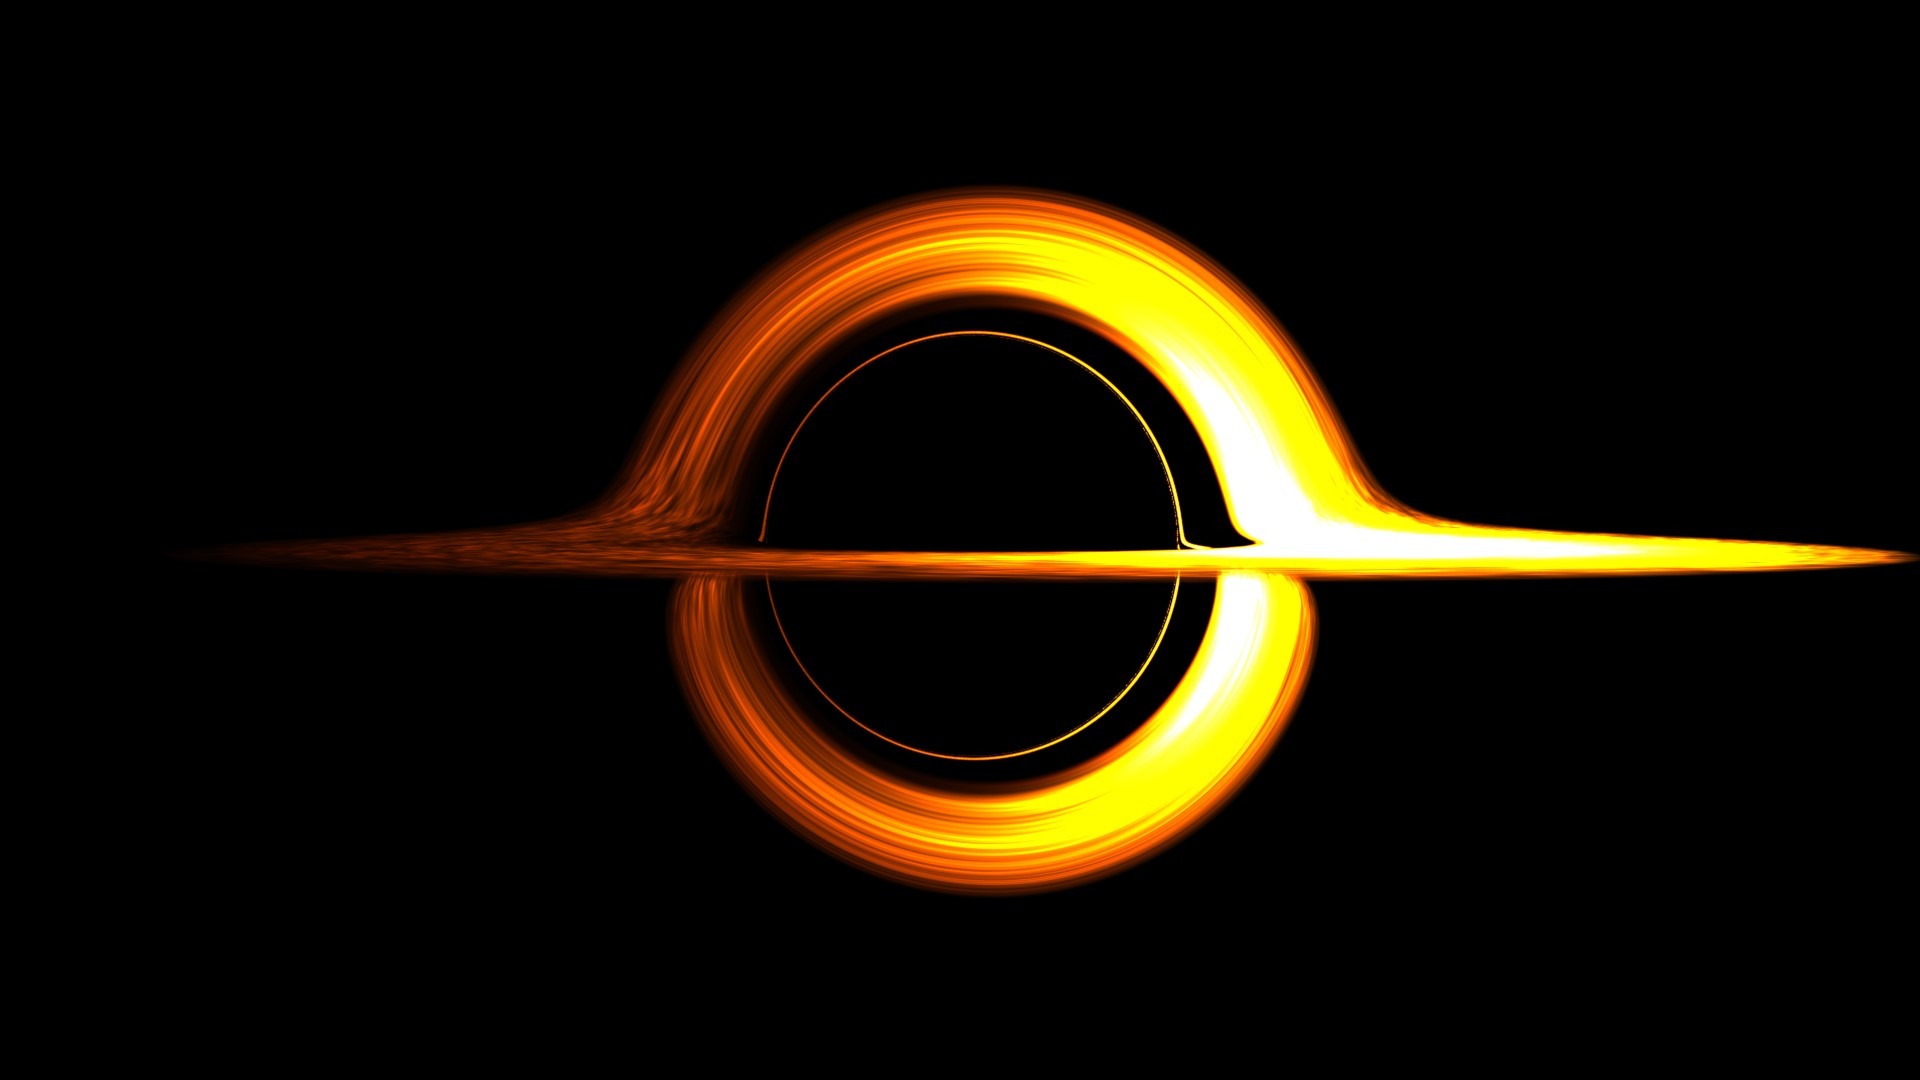
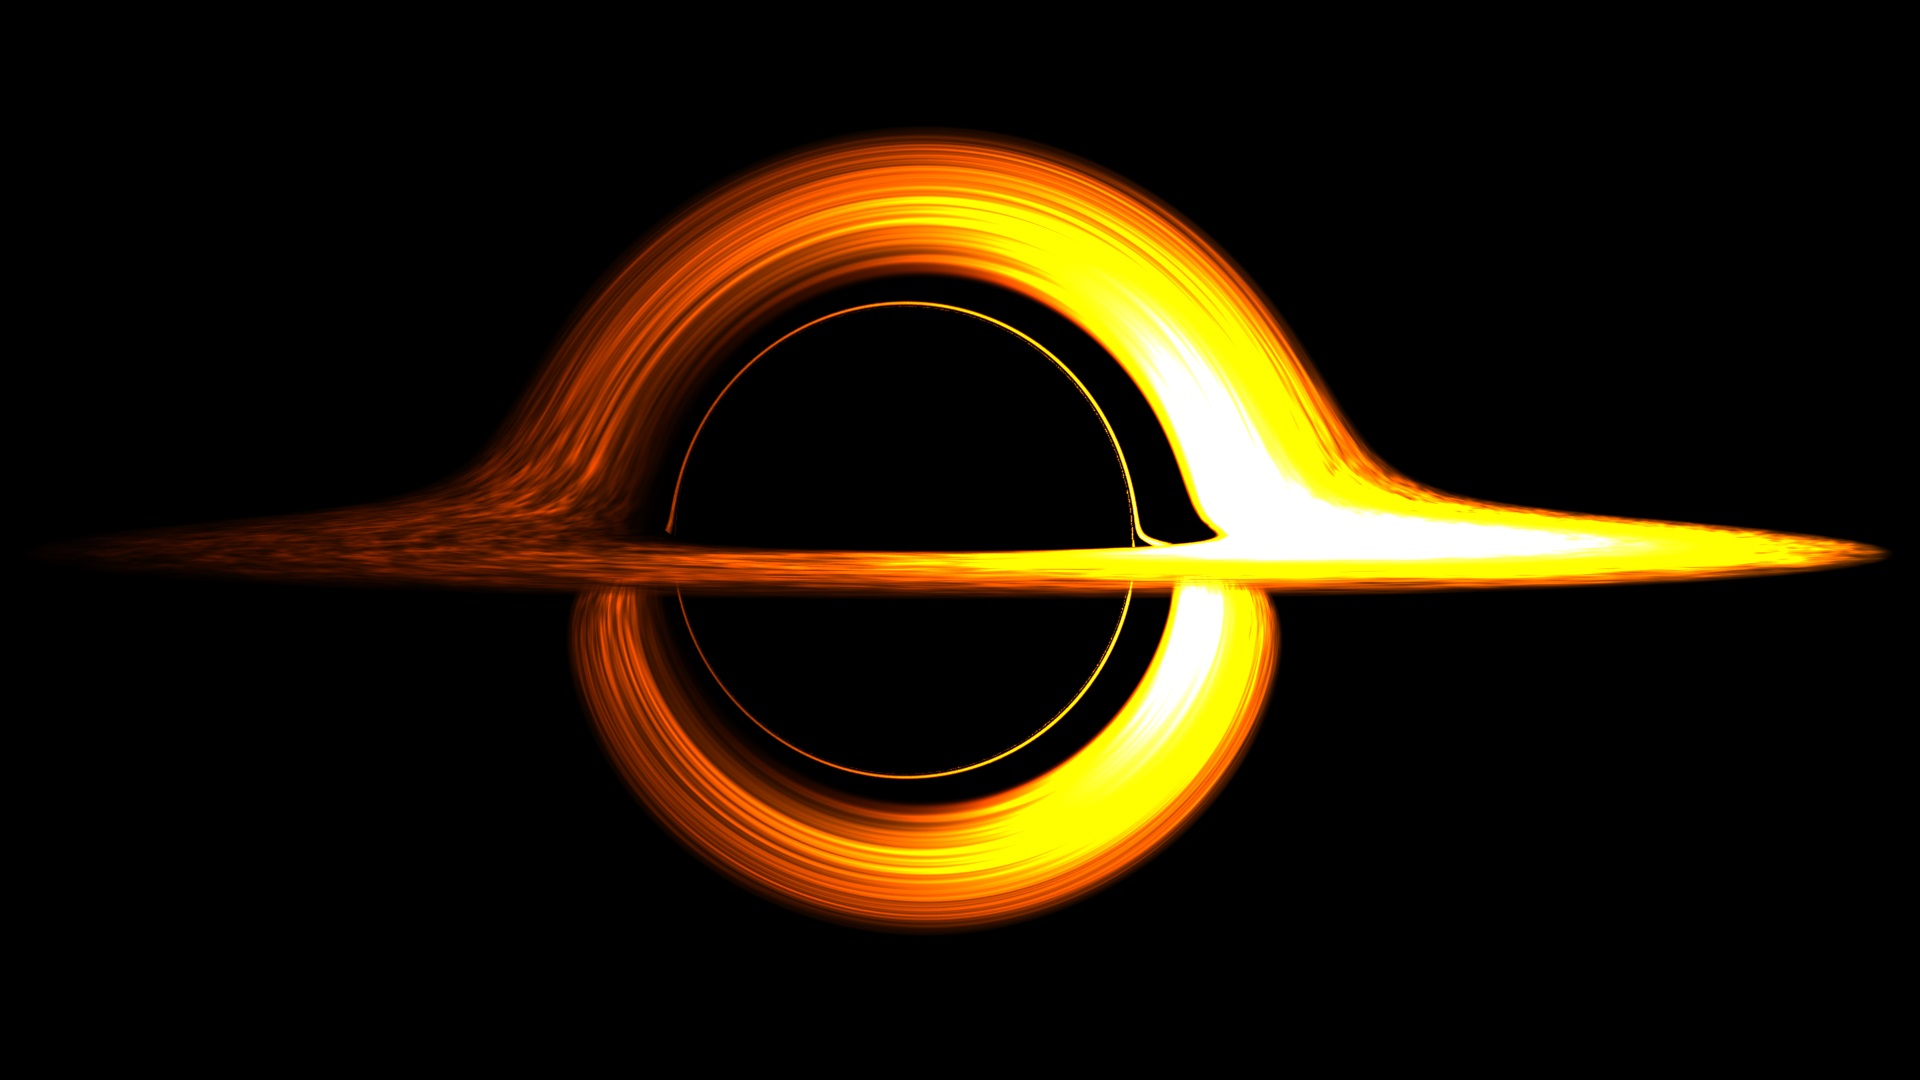
Added SetLook and SetFOV functions to camera.  Added left click passthrough to the scene to the 3D renderer.  Adjusted README.  Cleaned up member variables of BlackHole.

Changed region(s): [[0.0312, 0.1222, 1.0, 0.8861]]

diff --git a/voidstar/src/scenes/blackhole/BlackHole.cpp b/voidstar/src/scenes/blackhole/BlackHole.cpp
@@ -14,12 +14,19 @@ BlackHole::BlackHole()
     CreateFBOs();
     CompilePostShaders();
 
-    // y=1 puts the camera slightly above the xz-plane of the accretion disk.
-    // Ideally we'd be able to set the z-distance from the black hole programmatically based on the camera's FOV,
+    // y>0 puts the camera above the xz-plane of the accretion disk.
+    // Ideally we'd be able to set the z position from the black hole programmatically based on the camera's FOV,
     // but because of the bending of light, the calculation too complicated, so we set it manually.
-    // FOV = 60  =>  z-distance = -25.0.
-    // FOV = 40  =>  z-distance = -35.5.
-    Application::Get().GetCamera().SetCameraPos(glm::vec3(0.0f, 1.0f, -35.5f));
+    // FOV = 60  =>  z position = -25.0.
+    // FOV = 40  =>  z position = -35.5.
+    // FOV = 30  =>  z position = -45.0
+    Camera& camera = Application::Get().GetCamera();
+    camera.SetFOV(30.0f);
+    glm::vec3 pos = glm::vec3(0.0f, 2.0f, -45.0f);
+    glm::vec3 blackholePos = glm::vec3(0.0f, 0.0f, 0.0f);
+    glm::vec3 look = glm::normalize(blackholePos - pos);
+    camera.SetLook(look);
+    camera.SetCameraPos(pos);
 
     SetGraphicsPreset(m_presets[m_presetSelector]);
 }
@@ -37,6 +44,16 @@ void BlackHole::OnUpdate()
     // Set the new draw distance based on camera position.  Also determine whether the camera is inside the event horizon.
     m_drawDistance = CalculateDrawDistance();
     SetShaderDefines();
+}
+
+void BlackHole::OnClick(int x, int y)
+{
+    if (Application::Get().GetPaused())
+    {
+#ifndef NDEBUG
+        std::cout << "Left mouse click!  Cursor position x = " << x << ", y = " << y << std::endl;
+#endif
+    }
 }
 
 void BlackHole::Draw()
@@ -174,7 +191,6 @@ void BlackHole::SetShaderUniforms()
     shader->SetUniform4f("u_ScreenSize", (float)vp[0], (float)vp[1], (float)vp[2], (float)vp[3]);
     shader->SetUniform1f("u_InnerRadius", m_diskInnerRadius);
     shader->SetUniform1f("u_OuterRadius", m_diskOuterRadius);
-    shader->SetUniform1f("u_BHRadius", m_radius);
     shader->SetUniform1f("u_risco", m_risco);
     shader->SetUniform1f("u_BHMass", m_mass);
     shader->SetUniform1f("u_dMdt", m_dMdt);
@@ -528,8 +544,7 @@ void BlackHole::ImGuiBHProperties()
         "simulation quality below.");
     if (ImGui::SliderFloat("##BlackHoleMass", &m_mass, 1.0, 3.0, "Black Hole Mass = %.1f"))
     {
-        m_radius = 2.0f * m_mass;
-        m_diskInnerRadius = 3.0f * m_radius;
+        m_diskInnerRadius = 6.0f * m_mass;
         if (m_mass <= m_a)
         {
             m_a = m_mass - 0.05f, 0.0f;
@@ -540,12 +555,12 @@ void BlackHole::ImGuiBHProperties()
         }
         CalculateISCO();
     }
-    ImGui::SliderFloat("##InnerDiskRadius", &m_diskInnerRadius, 1.5f * m_radius, 5.0f * m_radius, "Inner Disk Radius = %.1f");
+    ImGui::SliderFloat("##InnerDiskRadius", &m_diskInnerRadius, 3.0f * m_mass, 10.0f * m_mass, "Inner Disk Radius = %.1f");
     if (ImGui::Button("Set Inner Radius to ISCO"))
     {
         m_diskInnerRadius = m_risco;
     }
-    ImGui::SliderFloat("##OuterDiskRadius", &m_diskOuterRadius, m_diskInnerRadius, 20.0f * m_radius,
+    ImGui::SliderFloat("##OuterDiskRadius", &m_diskOuterRadius, m_diskInnerRadius, 40.0f * m_mass,
         "Outer Disk Radius = %.1f");
     if (m_shaderSelector == 0)
     {
@@ -657,7 +672,7 @@ void BlackHole::ImGuiCinematic()
     float maxBackgroundMultiplier = m_useBloom ? 10.0f : 1.0f;
     float maxEmissionMultiplier = m_useBloom ? 10.0f : 1.0f;
     ImGui::SliderFloat("##BackgroundMultiplier", &m_bloomBackgroundMultiplier, 0.0f, maxBackgroundMultiplier, "Background = %.2f");
-    ImGui::SliderFloat("##DiskMultiplier", &m_bloomDiskMultiplier, 0.0f, maxEmissionMultiplier, "Disk Emission = %.1f");
+    ImGui::SliderFloat("##DiskMultiplier", &m_bloomDiskMultiplier, 0.0f, maxEmissionMultiplier, "Disk Emission = %.2f");
     ImGui::SliderFloat("##DiskAbsorption", &m_diskAbsorption, 0.0f, 10.0f, "Disk Absorption = %.1f");
     ImGui::SliderFloat("##dMdt", &m_dMdt, 0.0f, 30000.0f, "dM/dt = %.0f");
     ImGui::SliderFloat("##blueshiftPower", &m_blueshiftPower, 0.0f, 10.0f, "Blueshift Power = %.2f");

diff --git a/voidstar/src/GLFWCallbacks.cpp b/voidstar/src/GLFWCallbacks.cpp
@@ -8,10 +8,12 @@
 #pragma warning(disable:4996)
 #include "stb_image_write.h"
 #pragma warning( pop )
+#include "imgui.h"
 
 #include <iostream>
 #include <chrono>
 #include <format>
+#include <cmath>
 
 
 void WindowCloseCallback(GLFWwindow* window)
@@ -49,7 +51,16 @@ void MouseButtonCallback(GLFWwindow* window, int button, int action, int mods)
 {
 	if (button == GLFW_MOUSE_BUTTON_LEFT && action == GLFW_PRESS)
 	{
-		;
+#ifndef NDEBUG
+		double xpos;
+		double ypos;
+		glfwGetCursorPos(window, &xpos, &ypos);
+		ImGuiIO& io = ImGui::GetIO();
+		if (!io.WantCaptureMouse)
+		{
+			Application::Get().OnClick((int)std::floor(xpos), (int)std::floor(ypos));
+		}
+#endif
 	}
 	if (button == GLFW_MOUSE_BUTTON_RIGHT && action == GLFW_PRESS)
 	{
@@ -73,14 +84,14 @@ void MouseScrollCallback(GLFWwindow* window, double xoffset, double yoffset)
 void Screenshot()
 {
 	auto const timenow = std::chrono::system_clock::now();
-	std::string localtime = std::format("{0:%Y%m%d%H%M%S}", timenow);
-	// localtime probably has a '.' in it between seconds and milliseconds/microseconds.  Make a new string without the '.'.
-	std::string::size_type n = localtime.find('.');
+	std::string datetimeStr = std::format("{0:%Y%m%d%H%M%S}", timenow);
+	// localtime probably has a '.' in it between seconds and milliseconds/microseconds.  If necessary, remove the '.'.
+	std::string::size_type n = datetimeStr.find('.');
 	if (n != std::string::npos)
 	{
-		localtime.erase(n, 1);
+		datetimeStr.erase(n, 1);
 	}
-	std::string outFileName = "Screenshot_" + localtime + ".png";
+	std::string outFileName = "Screenshot_" + datetimeStr + ".png";
 #ifndef NDEBUG
 	std::cout << outFileName << '\n';
 #endif

diff --git a/voidstar/src/Camera.cpp b/voidstar/src/Camera.cpp
@@ -128,11 +128,49 @@ void Camera::SetCameraPos(glm::vec3 pos)
 	m_cameraPos = pos;
 }
 
+void Camera::SetLook(const glm::vec3 look)
+{
+	if (m_UseEulerAngles)
+	{
+		m_Look = look;
+		m_Up = m_originalUp;
+		m_Right = glm::normalize(glm::cross(m_Look, m_Up));
+		m_Look = glm::normalize(m_Look);
+		float pitch = glm::asin(m_Look.y);
+		float yaw = glm::atan(m_Look.x, m_Look.z);
+
+		// Restrict the pitch axis in order to prevent gimbal lock.
+		constexpr float max_angle = (89.0f / 90.0f) * (glm::pi<float>() / 2.0f);  // 89 degrees in radians
+		if (pitch > max_angle || pitch < -max_angle)
+		{
+			pitch = max_angle * glm::sign(pitch);
+		}
+
+		// We can't use a roll angle because we are forcing up to be fixed.
+		m_EulerAngles = glm::vec3(pitch, yaw, 0.0f);
+	}
+	else
+	{
+		// w component goes first in constructor: w,x,y,z
+		glm::quat newrotation{ glm::length(m_Look) * glm::length(look) + glm::dot(m_Look, look), glm::cross(m_Look, look) };
+		m_cameraRot = glm::normalize(newrotation) * m_cameraRot;
+		m_Look = m_cameraRot * m_originalLook;
+		m_Up = m_cameraRot * m_originalUp;
+		m_Right = m_cameraRot * m_originalRight;
+	}
+}
+
 void Camera::SetProj()
 {
 	int width, height;
 	glfwGetWindowSize(Application::Get().GetWindow().GetWindow(), &width, &height);
 	m_Proj = glm::perspective(glm::radians(m_FOV), (float)width / (float)height, 0.1f, 1000.0f);
+}
+
+void Camera::SetFOV(float fov)
+{
+	m_FOV = fov;
+	SetProj();
 }
 
 void Camera::TogglePause()

diff --git a/voidstar/src/Renderer.cpp b/voidstar/src/Renderer.cpp
@@ -149,14 +149,14 @@ void Renderer::Shutdown()
 std::string Renderer::GetShaderPath(const std::string& filePath, const std::vector<std::string>& vertexDefines, const std::vector<std::string>& fragmentDefines)
 {
     std::string filePathwithDefines = filePath;
-    for (auto str : vertexDefines)
+    for (auto &str : vertexDefines)
     {
         if (!str.empty())
         {
             filePathwithDefines.append(str);
         }
     }
-    for (auto str : fragmentDefines)
+    for (auto &str : fragmentDefines)
     {
         if (!str.empty())
         {

diff --git a/voidstar/src/scenes/blackhole/BlackHole.h b/voidstar/src/scenes/blackhole/BlackHole.h
@@ -34,6 +34,7 @@ public:
 	~BlackHole();
 
 	void OnUpdate();
+	void OnClick(int x, int y);
 	void Draw();
 	void PostProcess();
 
@@ -69,10 +70,9 @@ public:
 private:
 	float m_mass = 1.0f;
 	float m_dMdt = 10000.0; // dM/dt = \dot{M}
-	float m_radius = 2.0f * m_mass;
 	float m_risco;
-	float m_diskInnerRadius = 2.25f * m_radius;
-	float m_diskOuterRadius = 9.0f * m_radius;
+	float m_diskInnerRadius = 4.5f * m_mass;
+	float m_diskOuterRadius = 18.0f * m_mass;
 	float m_a = 0.6f;
 	float m_Tmax = 2000.0f;
 	bool m_insideHorizon = false;

diff --git a/voidstar/src/Application.h b/voidstar/src/Application.h
@@ -21,6 +21,7 @@ public:
 	void ToggleVsync() const;
 	void ToggleFullscreen();
 	void OnResize(int width, int height);
+	void OnClick(int x, int y);
 
 	static Application& Get()
 	{
@@ -35,6 +36,7 @@ public:
 	Timer& GetFrameTimer() { return m_FrameTimer; }
 	Timer& GetCPUTimer() { return m_CPUTimer; }
 	Timer& GetGPUTimer() { return m_GPUTimer; }
+	bool GetPaused() const { return m_Paused; }
 
 	void ResetCameraMousePos();
 	void ImGuiPrintRenderStats();

diff --git a/voidstar/src/scenes/Scene.h b/voidstar/src/scenes/Scene.h
@@ -17,6 +17,7 @@ namespace scene
 		virtual void OnRender() {}
 		virtual void OnImGuiRender() {}
 		virtual void OnResize() {}
+		virtual void OnClick(int x, int y) {}
 	};
 
 
@@ -30,6 +31,7 @@ namespace scene
 		void OnRender();
 		void OnImGuiRender();
 		void OnResize();
+		void OnClick(int x, int y);
 
 		template <typename T>
 		void RegisterScene(const std::string& name)

diff --git a/voidstar/src/scenes/Scene.cpp b/voidstar/src/scenes/Scene.cpp
@@ -56,6 +56,14 @@ void scene::SceneManager::OnResize()
 	}
 }
 
+void scene::SceneManager::OnClick(int x, int y)
+{
+	if (m_CurrentScene)
+	{
+		m_CurrentScene->OnClick(x, y);
+	}
+}
+
 void scene::SceneManager::DeleteCurrentScene()
 {
 	if (m_CurrentScene)

diff --git a/voidstar/src/Application.cpp b/voidstar/src/Application.cpp
@@ -97,6 +97,11 @@ void Application::OnResize(int width, int height)
 	}
 }
 
+void Application::OnClick(int x, int y)
+{
+	m_SceneManager.OnClick(x, y);
+}
+
 void Application::ResetCameraMousePos()
 {
 	double currentMouseX, currentMouseY;

diff --git a/voidstar/src/Camera.h b/voidstar/src/Camera.h
@@ -23,7 +23,9 @@ class Camera
 		void Reset();
 
 		void SetCameraPos(glm::vec3 pos);
+		void SetLook(glm::vec3 pos);
 		void SetProj();
+		void SetFOV(float fov);
 		void TogglePause();
 		void ToggleEulerAngles();
 

diff --git a/voidstar/src/scenes/blackhole/BlackHoleScene.h b/voidstar/src/scenes/blackhole/BlackHoleScene.h
@@ -17,6 +17,7 @@ namespace scene
 		void OnRender() override;
 		void OnImGuiRender() override;
 		void OnResize() override;
+		void OnClick(int x, int y) override;
 
 	private:
 		BlackHole m_blackHole;

diff --git a/voidstar/src/scenes/blackhole/BlackHoleScene.cpp b/voidstar/src/scenes/blackhole/BlackHoleScene.cpp
@@ -27,3 +27,8 @@ void scene::BlackHoleScene::OnResize()
 {
     m_blackHole.OnResize();
 }
+
+void scene::BlackHoleScene::OnClick(int x, int y)
+{
+    m_blackHole.OnClick(x, y);
+}
